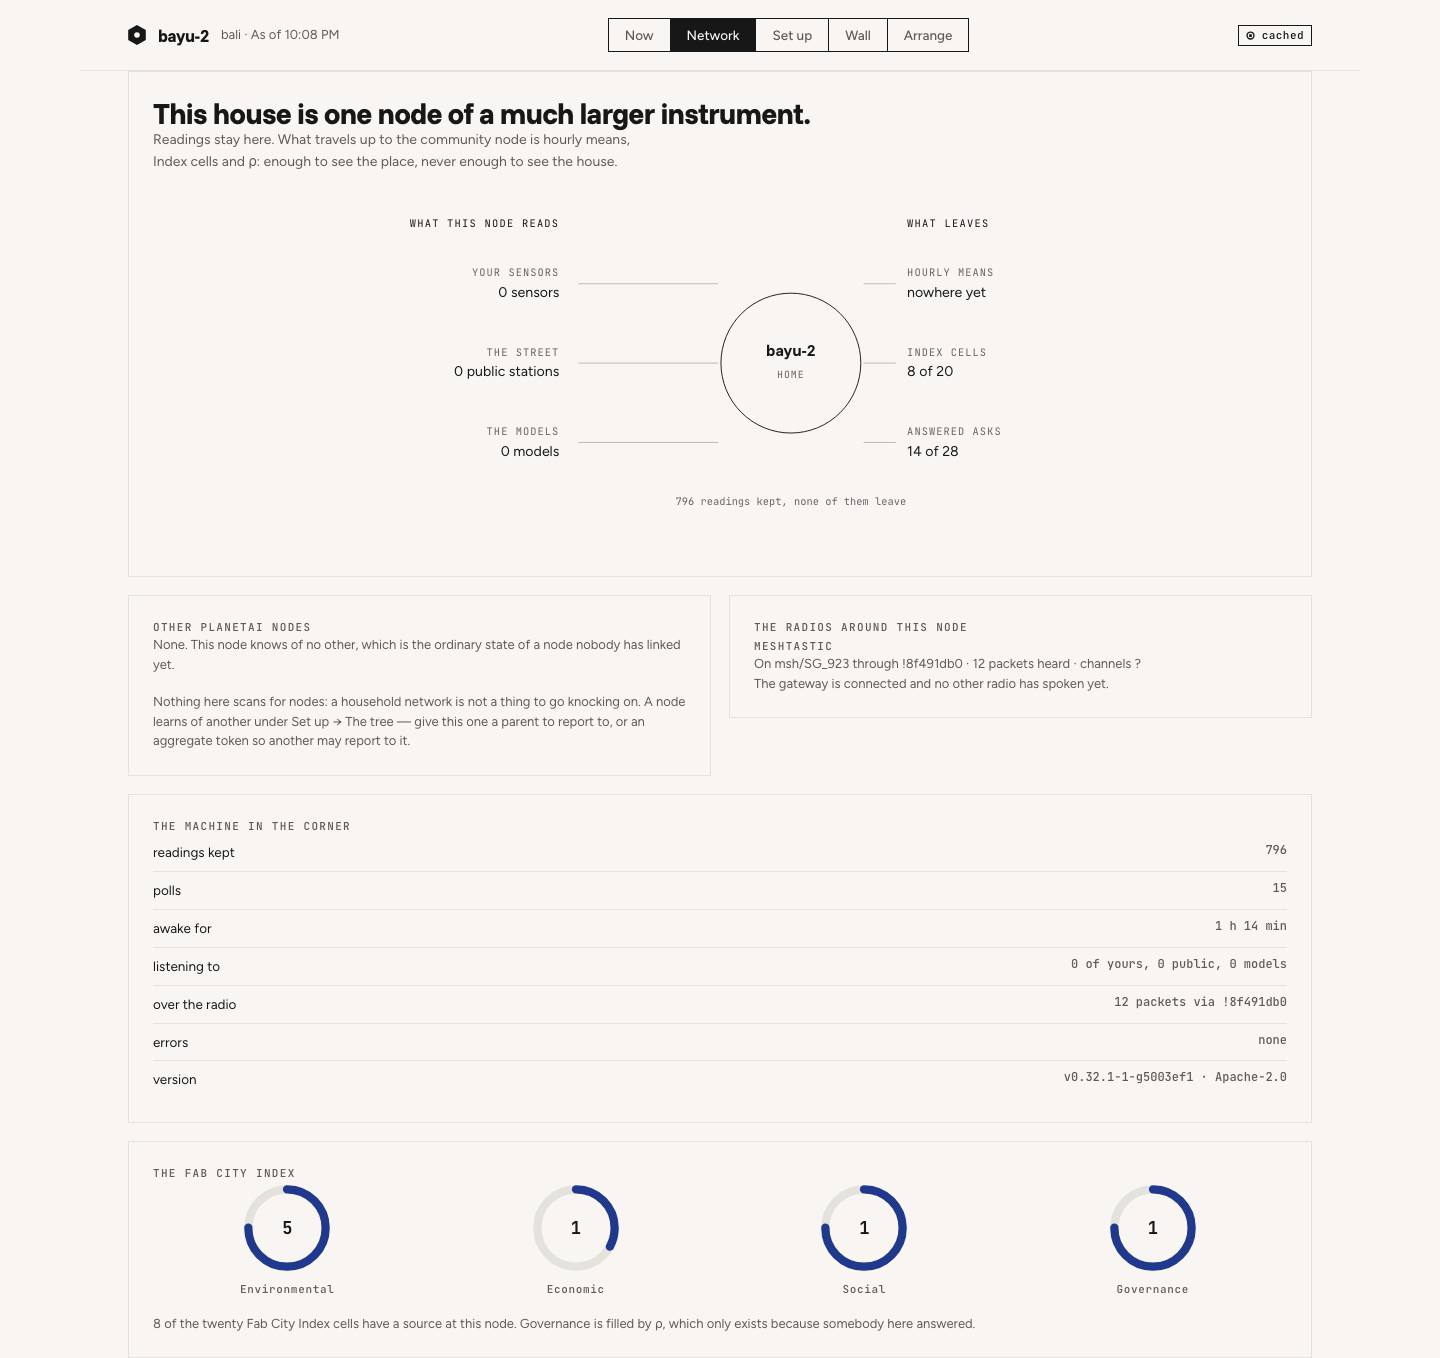
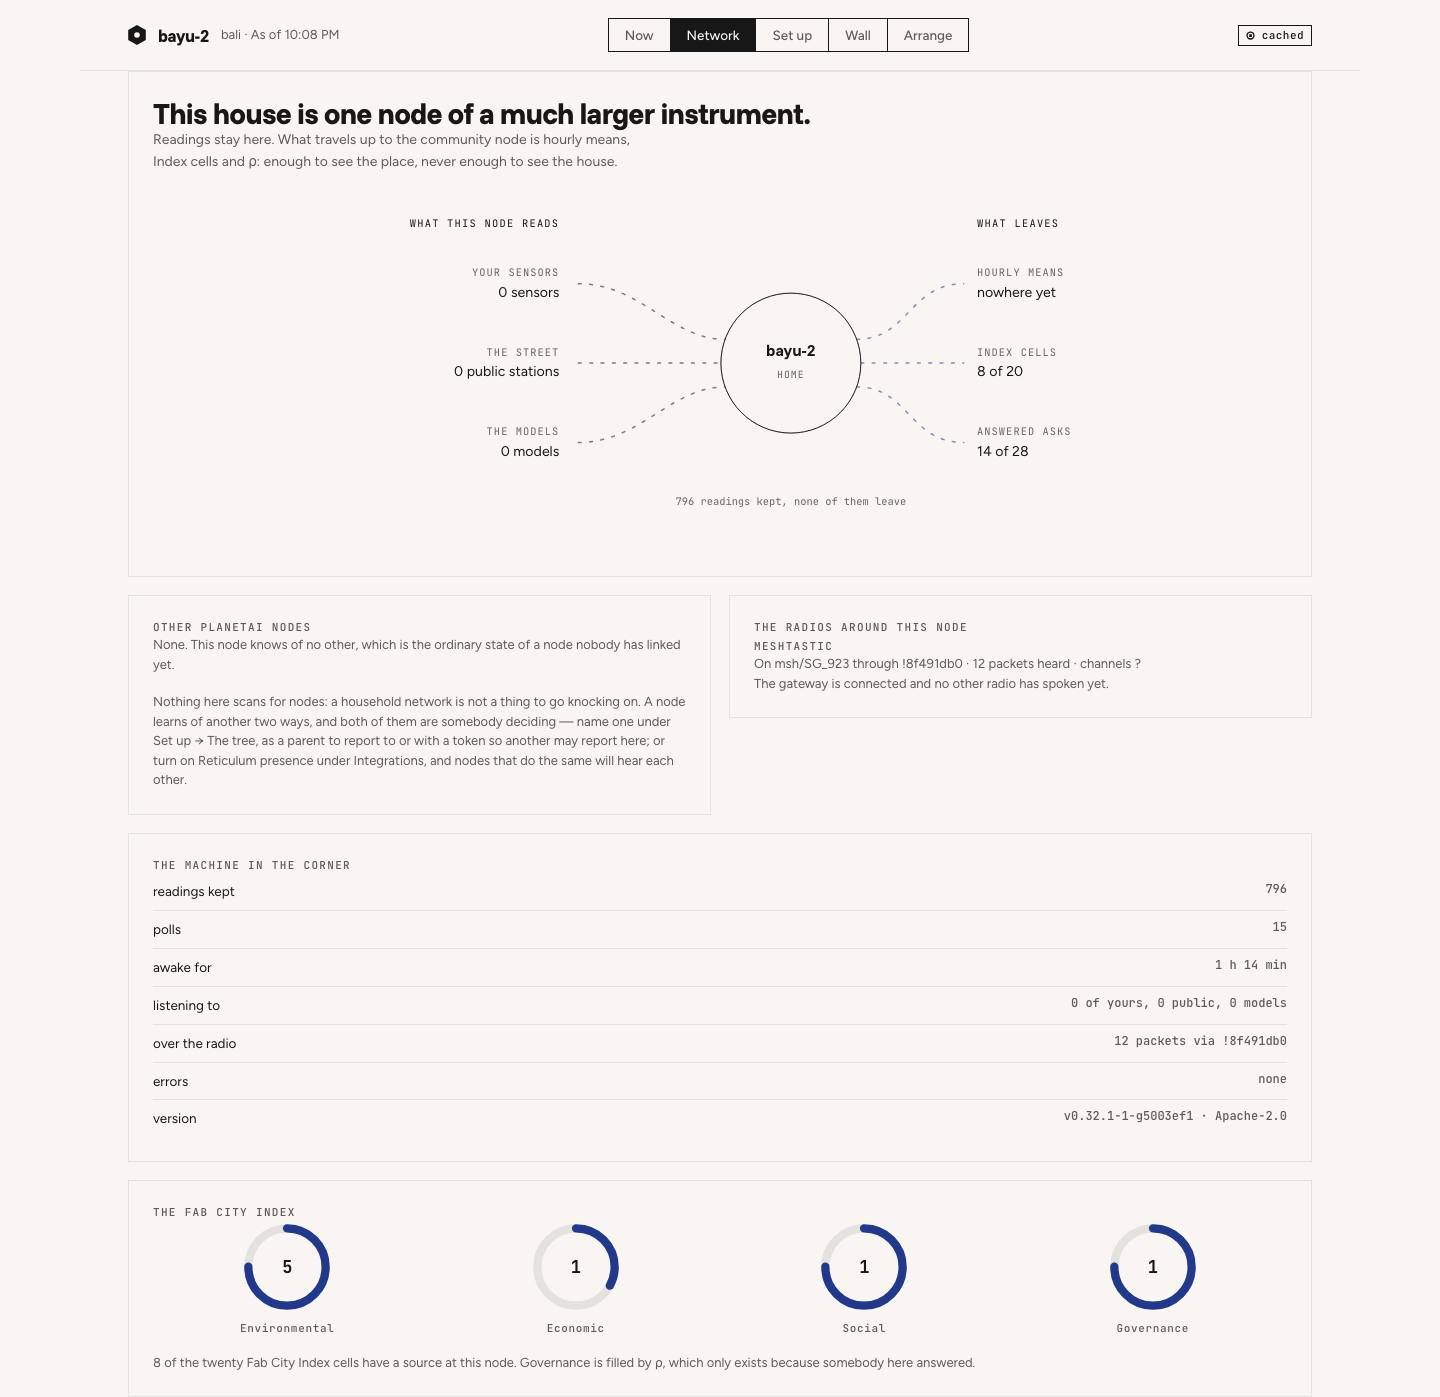
the network figure moves again: the wires carry what they carry (#34)
**The figure in the Network view draws its wires again.** This node in the middle, what it reads on the left, what leaves on the right — each wire marching its dashes and carrying a dot the way the data goes, with a slow halo around the node. The older page had this; the port to the renderer in v0.47 left it still, and drawn still it read as a diagram of an instrument rather than an instrument. Tomas's call.

Six wires rather than the old four: one per row, the same three facts a side the figure already carried. Ink for what arrives and `--cells` for what leaves, because what leaves is the hourly means, the Index cells and ρ, and blue is what data looks like on this page.

Each wire meets the node on its own point of the circle. Ending all six on one point pinched the figure into a bowtie and crossed the top and bottom wires before they arrived.

**CSS animations, not the old SMIL.** The reduced-motion rule at the foot of `dashboard.css` can switch a CSS animation off and cannot touch an `<animate>`, which was half of why these were dropped in v0.47. On a machine asking for less motion the wires stop and the dots are hidden rather than frozen at the start of their wires, where a stopped dot reads as a sixth mark meaning nothing.
[…]

diff --git a/app/static/dashboard.js b/app/static/dashboard.js
@@ -1397,9 +1397,10 @@ function wallView(snap, ctx) {
  * The view existed in the page this replaces and the renderer never filled it: `render()` handled
  * Now and the wall, so Network was four empty boxes on every node since v0.45.
  *
- * Static, where the old one animated four flowing wires and a pulsing halo. R6 binds motion to the
- * cadence of its own datum and a dot travelling along a wire has none — the same rule that deleted
- * the node marker's pulse from the plan.
+ * The old page's four flowing wires and its pulsing halo are back, by Tomas's call: the figure is
+ * of a thing at work, and drawn still it read as a diagram of one. The motion is CSS rather than
+ * the old SMIL, so the reduced-motion rule at the foot of dashboard.css turns all of it off — SMIL
+ * ignores that rule, which is the other half of why the old ones were dropped.
  */
 function netMap(d, ctx) {
   const w = ctx.w.net;
@@ -1415,21 +1416,35 @@ function netMap(d, ctx) {
                [w.rhoOut, t(w.rhoN, { closed: d.acted, total: d.asks })]];
   const kept = t(w.kept, { n: (h.ingested || 0).toLocaleString() });
 
+  // A wire per row: in-wires run label -> node, out-wires node -> label, so the dash march and the
+  // travelling dot both go the way the data goes. Ink for what arrives, --cells for what leaves,
+  // because what leaves is the hourly means, the Index cells and rho — data about the place.
+  // Each wire meets the node on its own point of the circle rather than all six on one: converging
+  // on a single point pinched the figure into a bowtie and the top and bottom wires crossed.
+  const wire = (side, y) => {
+    const k = (y - 180) * 0.3, ey = 180 + k, dx = Math.sqrt(74 * 74 - k * k);
+    return side === 'in' ? `M450 ${y} C 516 ${y} 548 ${ey} ${675 - dx} ${ey}`
+                         : `M${675 + dx} ${ey} C 800 ${ey} 800 ${y} 858 ${y}`;
+  };
+
   const rows = (side, items) => items.map(([label, value], i) => {
     const y = 96 + i * 84;
-    const x = side === 'in' ? 430 : 798;
+    const x = side === 'in' ? 430 : 872;
+    const d = wire(side, y), ink = side === 'in' ? 'var(--ink)' : 'var(--cells)';
     return `<text x="${x}" y="${y - 8}" text-anchor="${side === 'in' ? 'end' : 'start'}" class="mono label"`
       + ` font-size="11" letter-spacing=".1em" fill-opacity=".65">${esc(label.toUpperCase())}</text>`
       + `<text x="${x}" y="${y + 14}" text-anchor="${side === 'in' ? 'end' : 'start'}" class="fig"`
       + ` font-size="15" font-family="var(--fc-font-body)">${esc(value)}</text>`
-      + `<line x1="${side === 'in' ? 450 : 752}" x2="${side === 'in' ? 598 : 786}" y1="${y}" y2="${y}"`
-      + ` stroke="var(--ink)" stroke-opacity=".28"/>`;
+      + `<path class="wire" d="${d}" fill="none" stroke="${ink}" stroke-width="1.6" stroke-opacity=".55"/>`
+      + `<circle class="dot" r="3.5" fill="${ink}"`
+      + ` style="offset-path:path('${d}');animation-duration:${7 + i * 2.5}s"/>`;
   }).join('');
 
   const svg = `<svg class="net" viewBox="0 0 1200 380" role="img" aria-label="${esc(w.title)}">`
     + `<text x="430" y="36" text-anchor="end" class="mono label" font-size="11" letter-spacing=".12em">${esc(w.reads.toUpperCase())}</text>`
-    + `<text x="798" y="36" class="mono label" font-size="11" letter-spacing=".12em">${esc(w.leavesShort.toUpperCase())}</text>`
+    + `<text x="872" y="36" class="mono label" font-size="11" letter-spacing=".12em">${esc(w.leavesShort.toUpperCase())}</text>`
     + rows('in', IN) + rows('out', OUT)
+    + `<circle class="halo" cx="675" cy="180" r="74" fill="none" stroke="var(--ink)" stroke-opacity=".4"/>`
     + `<circle cx="675" cy="180" r="74" fill="var(--ground)" stroke="var(--ink)"/>`
     + `<text x="675" y="172" text-anchor="middle" class="fig" font-size="17"`
     + ` font-family="var(--fc-font-display)" font-weight="700">${esc(h.node || 'node')}</text>`

diff --git a/app/static/dashboard.css b/app/static/dashboard.css
@@ -359,6 +359,15 @@ svg.net{width:100%;height:auto;display:block;margin-top:clamp(12px,1.6vw,20px)}
 @media(max-width:700px){svg.net{display:none}
 .netlist{display:block}
 }
+/* The network figure moves: the wires march their dashes and carry one dot each, and a halo breathes
+   around the node. CSS animations, not SMIL, because the reduced-motion rule at the foot of this
+   file can switch a CSS animation off and cannot touch an <animate>. */
+@keyframes netflow{to{stroke-dashoffset:-96}}
+@keyframes netdot{to{offset-distance:100%}}
+@keyframes nethalo{from{transform:scale(.92);opacity:.5}to{transform:scale(1.55);opacity:0}}
+svg.net .wire{stroke-dasharray:3 9;stroke-linecap:round;animation:netflow 3.4s linear infinite}
+svg.net .dot{offset-distance:0;animation:netdot 9s linear infinite}
+svg.net .halo{transform-origin:675px 180px;animation:nethalo 5s ease-out infinite}
 /* NOT .cell and NOT .ring: those are the frozen layer's binding classes and they bind on any
    element, not only inside an SVG — .ring sets color:var(--rings), which turned these four
    numbers green, and .cell sets stroke:var(--cells). Same reason the ring card is .ringcard:
@@ -422,6 +431,9 @@ body.wallview header{display:none}
 .plan g.road{fill:none;stroke:var(--ink)}
 /* a sign is a nested svg drawn in currentColor; it always has a size, so a stray one can never fall back to 300x150 */
 svg.sg{width:1em;height:1em;flex:none;vertical-align:-.12em}
-/* reduced motion: nothing on this prototype moves, and this keeps it so */
+/* reduced motion: the network figure's wires and halo are the only things on the page that move,
+   and this stops them. The dots are hidden rather than frozen: a stopped dot sits at the start of
+   its wire, which reads as a sixth mark on the figure meaning nothing. */
 @media (prefers-reduced-motion:reduce){*{animation:none!important;transition:none!important}
+svg.net .dot{display:none}
 }

diff --git a/CHANGELOG.md b/CHANGELOG.md
@@ -1,6 +1,6 @@
 # Changelog
 
-## Unreleased
+## v0.49 — 2026-09-12 — Menorca, and the network figure moves again
 
 **Menorca has a preset, and the first pack written for it.** `presets/menorca.env` carries Maó's
 coordinates, `Europe/Madrid`, Spanish alerts and the Govern de les Illes Balears CKAN catalogue
@@ -18,6 +18,18 @@ keep it: the plant is endemic and the number does not travel.
 coordinates from `/app/presets/*.env`, which docker-compose never mounted, so the script has been
 crashing with `FileNotFoundError: /app/presets/bali.env` on every node since it shipped. Found by
 running it on the Menorca node.
+
+**The wires carry what they carry.** The figure in the Network view — this node in the middle, what
+it reads on the left, what leaves on the right — draws its wires again, each one marching its
+dashes and carrying a dot the way the data goes, with a slow halo around the node. The older page
+had this and the port to the renderer in v0.47 left it still, where it read as a diagram of an
+instrument rather than an instrument.
+
+Ink for what arrives and blue for what leaves, which is the same rule the rest of the page follows:
+what leaves is hourly means, Index cells and ρ, and blue is what data looks like here.
+
+A machine asking for less motion gets none of it: the animation is CSS rather than the SVG kind the
+old page used, and CSS is the kind a browser can switch off on that request.
 
 ## v0.48 — 2026-09-12 — a node can say "I am here"
 
